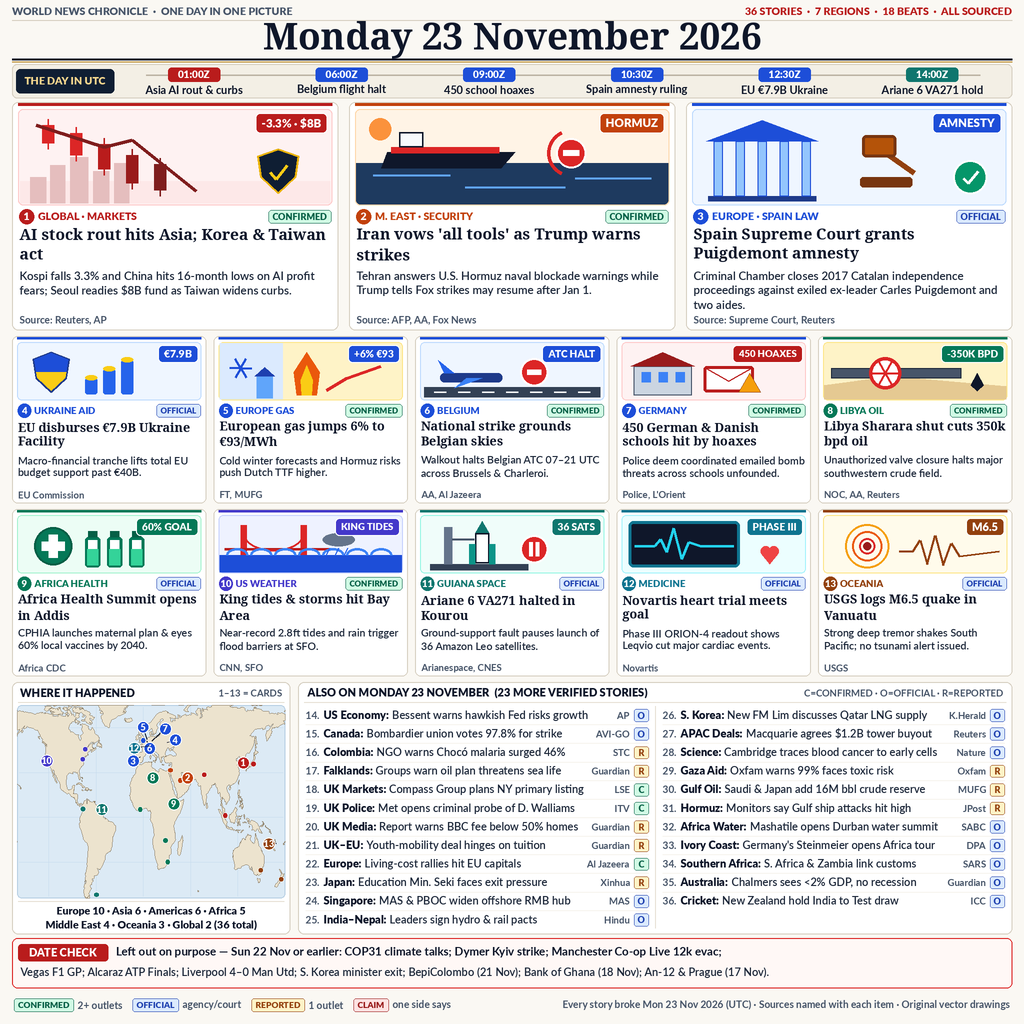
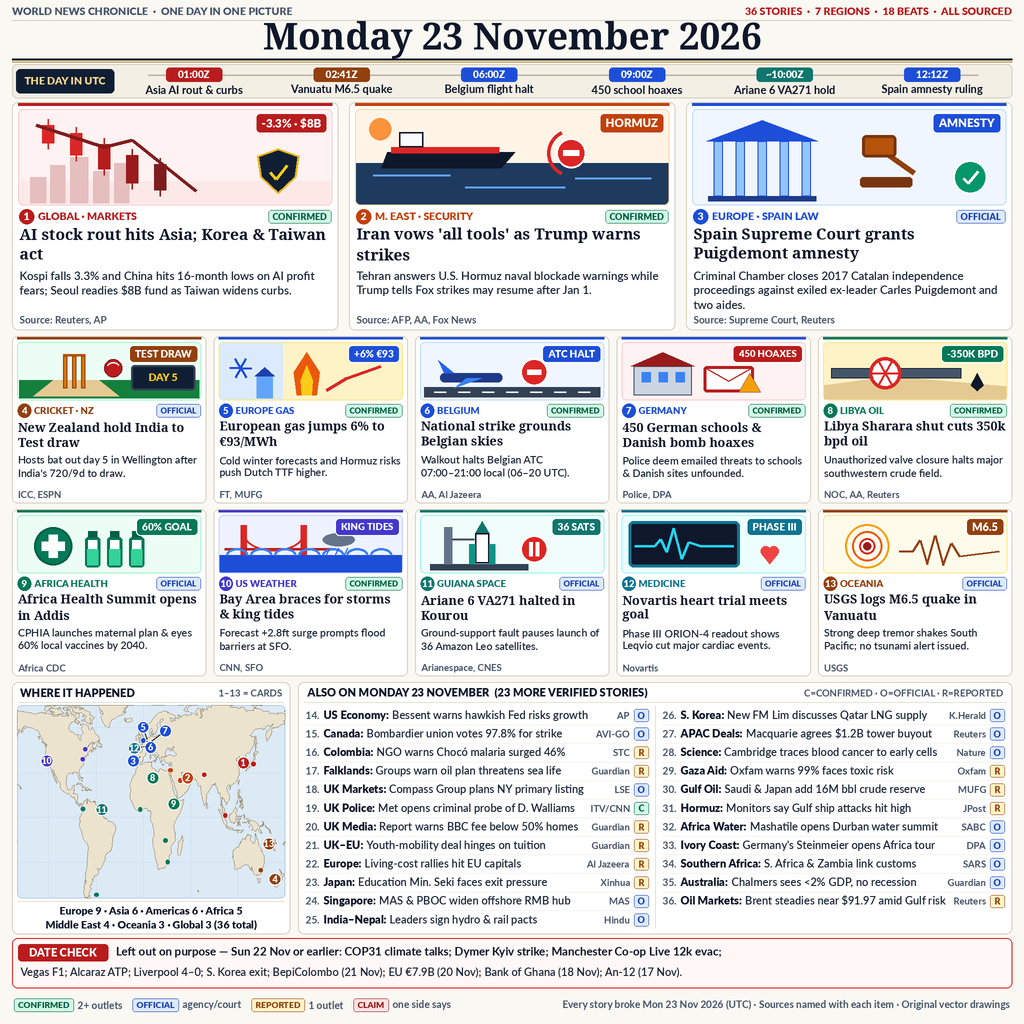
v8 R3 surgical fix: pure Mon 23 Nov NZ-India Test draw card, synced Belgium 06-20 UTC, verified UTC timeline, SFO surge forecast, strict badge legend

diff --git a/tools/render_atlas.py b/tools/render_atlas.py
@@ -93,6 +93,7 @@ BANNED_CARRYOVER_TOKENS = (
     "blues",
     "bears",
     "ituri",
+    "€7.9b",
 )
 
 
@@ -267,18 +268,18 @@ def draw_utc_timeline(
 
     milestones = [
         ("01:00Z", "Asia AI rout & curbs", REGION_COLORS["ASIA"]),
+        ("02:41Z", "Vanuatu M6.5 quake", REGION_COLORS["OCEANIA"]),
         ("06:00Z", "Belgium flight halt", REGION_COLORS["EUROPE"]),
         ("09:00Z", "450 school hoaxes", REGION_COLORS["EUROPE"]),
-        ("10:30Z", "Spain amnesty ruling", REGION_COLORS["EUROPE"]),
-        ("12:30Z", "EU €7.9B Ukraine", REGION_COLORS["EUROPE"]),
-        ("14:00Z", "Ariane 6 VA271 hold", REGION_COLORS["S_AMERICA"]),
+        ("~10:00Z", "Ariane 6 VA271 hold", REGION_COLORS["S_AMERICA"]),
+        ("12:12Z", "Spain amnesty ruling", REGION_COLORS["EUROPE"]),
     ]
 
     tx0 = x0 + 108
     tx1 = x1 - 6
     slot_w = (tx1 - tx0) / len(milestones)
     dot_y = y0 + 11.0
-    draw.line([s(tx0 + 26), s(dot_y), s(tx1 - 26), s(dot_y)], fill="#BDB4A4", width=s(1.4))
+    draw.line([s(tx0 + 28), s(dot_y), s(tx1 - 28), s(dot_y)], fill="#BDB4A4", width=s(1.4))
 
     f_time = load_font(SANS_BLACK, 10.2)
     f_desc = load_font(SANS_BOLD, 10.8)
@@ -286,7 +287,7 @@ def draw_utc_timeline(
     for i, (utc, desc, col) in enumerate(milestones):
         sx0 = tx0 + i * slot_w
         cx = sx0 + slot_w / 2
-        prect = (cx - 26, y0 + 3.5, cx + 26, y0 + 17.5)
+        prect = (cx - 28, y0 + 3.5, cx + 28, y0 + 17.5)
         rounded_rect(draw, prect, radius=3.5, fill=col)
         draw_centered_text(draw, cx, y0 + 10.5, utc, f_time, "#FFFFFF")
         db = draw_centered_text(draw, cx, y1 - 8.0, desc, f_desc, INK)
@@ -356,19 +357,24 @@ def art_lead_spain(draw: ImageDraw.ImageDraw, box: tuple[float, float, float, fl
 
 # ---------- 10 FEATURE CARD VECTOR ILLUSTRATIONS (184 x 58px) ----------
 
-def art_f_ukraine(draw: ImageDraw.ImageDraw, box: tuple[float, float, float, float]) -> None:
+def art_f_cricket(draw: ImageDraw.ImageDraw, box: tuple[float, float, float, float]) -> None:
     x0, y0, x1, y1 = box
-    rounded_rect(draw, box, radius=4.5, fill="#EFF6FF", outline="#BFDBFE", width=0.9)
-    cx, cy = x0 + 34, (y0 + y1) / 2 + 1
-    sh = [(s(cx), s(cy - 20)), (s(cx + 18), s(cy - 13)), (s(cx + 15), s(cy + 6)), (s(cx), s(cy + 20)), (s(cx - 15), s(cy + 6)), (s(cx - 18), s(cy - 13))]
-    draw.polygon(sh, fill="#1D4ED8")
-    draw.polygon([(s(cx + 16), s(cy)), (s(cx + 15), s(cy + 6)), (s(cx), s(cy + 20)), (s(cx - 15), s(cy + 6)), (s(cx - 16), s(cy))], fill="#FACC15")
-    draw.line(sh + [sh[0]], fill="#1E3A8A", width=s(1.6))
-    for i, bh in enumerate((16, 25, 34)):
-        bx = x0 + 68 + i * 18
-        rounded_rect(draw, (bx, y1 - 6 - bh, bx + 12, y1 - 6), radius=2.5, fill="#2563EB")
-        draw.ellipse([s(bx), s(y1 - 9 - bh), s(bx + 12), s(y1 - 4 - bh)], fill="#FACC15")
-    draw_plaque(draw, x1 - 4, y0 + 4, "€7.9B", "#1D4ED8", font_px=10.5, h=15.5)
+    rounded_rect(draw, box, radius=4.5, fill="#ECFDF5", outline="#A7F3D0", width=0.9)
+    # Lush green Wellington oval outfield + sandy Test pitch strip
+    draw.rectangle([s(x0 + 2), s(y1 - 20), s(x1 - 2), s(y1 - 2)], fill="#15803D")
+    draw.polygon([(s(x0 + 16), s(y1 - 4)), (s(x0 + 36), s(y1 - 20)), (s(x0 + 82), s(y1 - 20)), (s(x0 + 102), s(y1 - 4))], fill="#E5C992")
+    # Three golden cricket stumps + bails
+    for sx in (x0 + 48, x0 + 57, x0 + 66):
+        draw.rectangle([s(sx - 1.8), s(y0 + 14), s(sx + 1.8), s(y1 - 12)], fill="#D97706", outline="#92400E", width=s(0.8))
+    draw.line([s(x0 + 46), s(y0 + 13), s(x0 + 68), s(y0 + 13)], fill="#B45309", width=s(2.4))
+    # Red cricket ball with white seam
+    bx, by = x0 + 96, y0 + 26
+    draw.ellipse([s(bx - 9), s(by - 9), s(bx + 9), s(by + 9)], fill="#B91C1C", outline="#7F1D1D", width=s(1.0))
+    draw.arc([s(bx - 7), s(by - 6), s(bx + 7), s(by + 6)], start=210, end=330, fill="#F8FAFC", width=s(1.4))
+    # Dark stadium scoreboard on right
+    rounded_rect(draw, (x0 + 114, y0 + 23, x1 - 6, y1 - 10), radius=3.5, fill=NAVY, outline="#334155", width=s(1.0))
+    draw_centered_text(draw, (x0 + 114 + x1 - 6) / 2, (y0 + 23 + y1 - 10) / 2, "DAY 5", load_font(SANS_BLACK, 10.5), "#FACC15")
+    draw_plaque(draw, x1 - 4, y0 + 4, "TEST DRAW", "#92400E", font_px=9.8, h=15.5)
 
 
 def art_f_gas(draw: ImageDraw.ImageDraw, box: tuple[float, float, float, float]) -> None:
@@ -679,7 +685,6 @@ def draw_compact_map(
         (31.0, -29.8, REGION_COLORS["AFRICA"]),     # Durban water summit
         (28.0, -15.4, REGION_COLORS["AFRICA"]),     # Zambia customs link
         (149.1, -35.3, REGION_COLORS["OCEANIA"]),   # Australia
-        (174.8, -41.3, REGION_COLORS["OCEANIA"]),   # NZ
     ]
     for lon, lat, col in wire_dots:
         px, py = project_lonlat(lon, lat, map_box)
@@ -689,10 +694,10 @@ def draw_compact_map(
         ("1", 126.9, 36.5, 0, 0, REGION_COLORS["ASIA"]),
         ("2", 56.3, 26.5, 0, 0, REGION_COLORS["MIDDLE_EAST"]),
         ("3", -3.7, 40.4, -7, 4, REGION_COLORS["EUROPE"]),
-        ("4", 30.5, 50.4, 8, -2, REGION_COLORS["EUROPE"]),
+        ("4", 174.8, -41.3, -6, 0, REGION_COLORS["OCEANIA"]),
         ("5", 4.9, 52.3, -4, -12, REGION_COLORS["EUROPE"]),
-        ("6", 4.3, 50.8, 3, 7, REGION_COLORS["EUROPE"]),
-        ("7", 11.5, 51.2, 13, -12, REGION_COLORS["EUROPE"]),
+        ("6", 4.3, 50.8, 4, 6, REGION_COLORS["EUROPE"]),
+        ("7", 11.5, 51.2, 13, -10, REGION_COLORS["EUROPE"]),
         ("8", 12.2, 26.5, 0, 0, REGION_COLORS["AFRICA"]),
         ("9", 38.7, 9.0, 0, 0, REGION_COLORS["AFRICA"]),
         ("10", -122.4, 37.8, 0, 0, REGION_COLORS["AMERICAS"]),
@@ -713,8 +718,8 @@ def draw_compact_map(
     fy = y1 - ftr_h + 1
     draw.line([s(x0 + 6), s(fy), s(x1 - 6), s(fy)], fill=ROW_RULE, width=s(0.9))
     rf = load_font(SANS_BLACK, 10.4)
-    draw_centered_text(draw, (x0 + x1) / 2, fy + 10.5, "Europe 10 · Asia 6 · Americas 6 · Africa 5", rf, INK)
-    draw_centered_text(draw, (x0 + x1) / 2, fy + 24.5, "Middle East 4 · Oceania 3 · Global 2 (36 total)", rf, INK)
+    draw_centered_text(draw, (x0 + x1) / 2, fy + 10.5, "Europe 9 · Asia 6 · Americas 6 · Africa 5", rf, INK)
+    draw_centered_text(draw, (x0 + x1) / 2, fy + 24.5, "Middle East 4 · Oceania 3 · Global 3 (36 total)", rf, INK)
 
 
 # ---------- BAND 5B: 2-COLUMN LIGHT-IVORY WIRE (#14-#36, x=298..1012, y=682..934) ----------
@@ -800,7 +805,7 @@ def draw_date_check_and_legend(
     f_b = load_font(SANS_BOLD, 11.4)
     f_r = load_font(SANS_SEMI, 11.2)
     l1 = "Left out on purpose — Sun 22 Nov or earlier: COP31 climate talks; Dymer Kyiv strike; Manchester Co-op Live 12k evac;"
-    l2 = "Vegas F1 GP; Alcaraz ATP Finals; Liverpool 4–0 Man Utd; S. Korea minister exit; BepiColombo (21 Nov); Bank of Ghana (18 Nov); An-12 & Prague (17 Nov)."
+    l2 = "Vegas F1; Alcaraz ATP; Liverpool 4–0; S. Korea exit; BepiColombo (21 Nov); EU €7.9B (20 Nov); Bank of Ghana (18 Nov); An-12 (17 Nov)."
 
     b1 = draw_left_text(draw, x0 + 104, y0 + 14.5, l1, f_b, INK)
     b2 = draw_left_text(draw, x0 + 8, y0 + 34.5, l2, f_r, INK_DARK)
@@ -992,13 +997,13 @@ def render() -> None:
 
     # Band 4: 10 Illustrated Feature Cards (y=336..676px, 2 rows x 5 cols, 194x167px)
     features = [
-        (4, "UKRAINE AID", "OFFICIAL", REGION_COLORS["EUROPE"], "EU disburses €7.9B Ukraine Facility", "Macro-financial tranche lifts total EU budget support past €40B.", "EU Commission", art_f_ukraine),
+        (4, "CRICKET · NZ", "OFFICIAL", REGION_COLORS["OCEANIA"], "New Zealand hold India to Test draw", "Hosts bat out day 5 in Wellington after India's 720/9d to draw.", "ICC, ESPN", art_f_cricket),
         (5, "EUROPE GAS", "CONFIRMED", REGION_COLORS["EUROPE"], "European gas jumps 6% to €93/MWh", "Cold winter forecasts and Hormuz risks push Dutch TTF higher.", "FT, MUFG", art_f_gas),
-        (6, "BELGIUM", "CONFIRMED", REGION_COLORS["EUROPE"], "National strike grounds Belgian skies", "Walkout halts Belgian ATC 07–21 UTC across Brussels & Charleroi.", "AA, Al Jazeera", art_f_belgium),
-        (7, "GERMANY", "CONFIRMED", REGION_COLORS["EUROPE"], "450 German & Danish schools hit by hoaxes", "Police deem coordinated emailed bomb threats across schools unfounded.", "Police, L'Orient", art_f_schools),
+        (6, "BELGIUM", "CONFIRMED", REGION_COLORS["EUROPE"], "National strike grounds Belgian skies", "Walkout halts Belgian ATC 07:00–21:00 local (06–20 UTC).", "AA, Al Jazeera", art_f_belgium),
+        (7, "GERMANY", "CONFIRMED", REGION_COLORS["EUROPE"], "450 German schools & Danish bomb hoaxes", "Police deem emailed threats to schools & Danish sites unfounded.", "Police, DPA", art_f_schools),
         (8, "LIBYA OIL", "CONFIRMED", REGION_COLORS["AFRICA"], "Libya Sharara shut cuts 350k bpd oil", "Unauthorized valve closure halts major southwestern crude field.", "NOC, AA, Reuters", art_f_libya),
         (9, "AFRICA HEALTH", "OFFICIAL", REGION_COLORS["AFRICA"], "Africa Health Summit opens in Addis", "CPHIA launches maternal plan & eyes 60% local vaccines by 2040.", "Africa CDC", art_f_cphia),
-        (10, "US WEATHER", "CONFIRMED", REGION_COLORS["AMERICAS"], "King tides & storms hit Bay Area", "Near-record 2.8ft tides and rain trigger flood barriers at SFO.", "CNN, SFO", art_f_tides),
+        (10, "US WEATHER", "CONFIRMED", REGION_COLORS["AMERICAS"], "Bay Area braces for storms & king tides", "Forecast +2.8ft surge prompts flood barriers at SFO.", "CNN, SFO", art_f_tides),
         (11, "GUIANA SPACE", "OFFICIAL", REGION_COLORS["S_AMERICA"], "Ariane 6 VA271 halted in Kourou", "Ground-support fault pauses launch of 36 Amazon Leo satellites.", "Arianespace, CNES", art_f_ariane),
         (12, "MEDICINE", "OFFICIAL", REGION_COLORS["GLOBAL"], "Novartis heart trial meets goal", "Phase III ORION-4 readout shows Leqvio cut major cardiac events.", "Novartis", art_f_heart),
         (13, "OCEANIA", "OFFICIAL", REGION_COLORS["OCEANIA"], "USGS logs M6.5 quake in Vanuatu", "Strong deep tremor shakes South Pacific; no tsunami alert issued.", "USGS", art_f_quake),
@@ -1020,11 +1025,11 @@ def render() -> None:
         (15, "Canada", "Bombardier union votes 97.8% for strike", "AVI-GO", "OFFICIAL"),
         (16, "Colombia", "NGO warns Chocó malaria surged 46%", "STC", "REPORTED"),
         (17, "Falklands", "Groups warn oil plan threatens sea life", "Guardian", "REPORTED"),
-        (18, "UK Markets", "Compass Group plans NY primary listing", "LSE", "CONFIRMED"),
-        (19, "UK Police", "Met opens criminal probe of D. Walliams", "ITV", "CONFIRMED"),
+        (18, "UK Markets", "Compass Group plans NY primary listing", "LSE", "OFFICIAL"),
+        (19, "UK Police", "Met opens criminal probe of D. Walliams", "ITV/CNN", "CONFIRMED"),
         (20, "UK Media", "Report warns BBC fee below 50% homes", "Guardian", "REPORTED"),
         (21, "UK–EU", "Youth-mobility deal hinges on tuition", "Guardian", "REPORTED"),
-        (22, "Europe", "Living-cost rallies hit EU capitals", "Al Jazeera", "CONFIRMED"),
+        (22, "Europe", "Living-cost rallies hit EU capitals", "Al Jazeera", "REPORTED"),
         (23, "Japan", "Education Min. Seki faces exit pressure", "Xinhua", "REPORTED"),
         (24, "Singapore", "MAS & PBOC widen offshore RMB hub", "MAS", "OFFICIAL"),
         (25, "India–Nepal", "Leaders sign hydro & rail pacts", "Hindu", "OFFICIAL"),
@@ -1040,7 +1045,7 @@ def render() -> None:
         (33, "Ivory Coast", "Germany's Steinmeier opens Africa tour", "DPA", "OFFICIAL"),
         (34, "Southern Africa", "S. Africa & Zambia link customs", "SARS", "OFFICIAL"),
         (35, "Australia", "Chalmers sees <2% GDP, no recession", "Guardian", "OFFICIAL"),
-        (36, "Cricket", "New Zealand hold India to Test draw", "ICC", "OFFICIAL"),
+        (36, "Oil Markets", "Brent steadies near $91.97 amid Gulf risk", "Reuters", "REPORTED"),
     ]
     for grp in (left_wire, right_wire):
         for num, lead, body, src, _ in grp:

diff --git a/README.md b/README.md
@@ -13,20 +13,20 @@ An archival one-page illustrated world news chronicle summing up **Monday 23 Nov
   2. `Middle East · Security` (`CONFIRMED` · `AFP, AA, Fox News`) — Iran vows "all tools" against U.S. Hormuz naval blockade warnings while Trump tells Fox strikes may resume after Jan 1.
   3. `Europe · Spain Law` (`OFFICIAL` · `Supreme Court, Reuters`) — Spain Supreme Court Criminal Chamber grants amnesty closing 2017 Catalan independence cases against Carles Puigdemont and two former ministers.
 - **10 Illustrated Feature Cards (`#4–#13`):**
-  4. `Ukraine Aid` (`OFFICIAL` · `EU Commission`) — EU disburses €7.9B Ukraine Facility tranche, lifting total EU support past €40B.
+  4. `Cricket · NZ` (`OFFICIAL` · `ICC, ESPN`) — New Zealand bat out the final day in Wellington after India's 720/9d to hold a Test draw.
   5. `Europe Gas` (`CONFIRMED` · `FT, MUFG`) — European natural gas jumps 6% to €93/MWh on cold forecasts and Hormuz risks.
-  6. `Belgium` (`CONFIRMED` · `AA, Al Jazeera`) — National anti-austerity strike halts Belgian ATC `07–21 UTC`, grounding Brussels and Charleroi flights.
-  7. `Germany` (`CONFIRMED` · `Police, L'Orient`) — Roughly 450 German and Danish schools receive coordinated emailed bomb-threat hoaxes deemed unfounded by police.
+  6. `Belgium` (`CONFIRMED` · `AA, Al Jazeera`) — National anti-austerity strike halts Belgian ATC `07:00–21:00` local (`06–20 UTC`), grounding flights.
+  7. `Germany` (`CONFIRMED` · `Police, DPA`) — Roughly 450 German schools and Danish sites receive coordinated emailed bomb-threat hoaxes deemed unfounded by police.
   8. `Libya Oil` (`CONFIRMED` · `NOC, AA, Reuters`) — Unauthorized Sharara pipeline valve closure cuts 350k bpd of Libyan crude output.
   9. `Africa Health` (`OFFICIAL` · `Africa CDC`) — Africa Public Health Summit (CPHIA 2026) opens in Addis Ababa with maternal guidelines and a 60% local-vaccine goal by 2040.
-  10. `US Weather` (`CONFIRMED` · `CNN, SFO`) — Near-record 2.8ft king tides and Pacific storms trigger flood barriers at SFO before Thanksgiving travel.
+  10. `US Weather` (`CONFIRMED` · `CNN, SFO`) — Bay Area braces for Pacific storms and a forecast +2.8ft king-tide surge, prompting flood barriers at SFO before holiday travel.
   11. `Guiana Space` (`OFFICIAL` · `Arianespace, CNES`) — Ariane 6 Flight VA271 carrying 36 Amazon Leo satellites halted at Kourou over a ground-support fault.
   12. `Medicine` (`OFFICIAL` · `Novartis`) — Phase III ORION-4 heart trial readout shows Leqvio met its primary cardiovascular endpoint.
   13. `Oceania` (`OFFICIAL` · `USGS`) — USGS logs a strong M6.5 deep earthquake off Vanuatu with no tsunami warning.
 - **23 Additional Sourced Wire Stories (`#14–#36`):**
-  - US Fed warning (`AP`) · Canada Bombardier 97.8% strike vote (`AVI-GO`) · Colombia Chocó malaria +46% (`STC`) · Falklands deepwater oil warning (`Guardian`) · UK FTSE 100 Compass Group NY primary-listing plan (`LSE`) · UK Met Police probe of David Walliams (`ITV`) · UK BBC licence fee report (`Guardian`) · UK–EU youth-mobility tuition talks (`Guardian`) · Europe cost-of-living protests (`Al Jazeera`) · Japan Education Min. Seki resignation pressure (`Xinhua`) · Singapore–China MAS/PBOC RMB hub (`MAS`) · India–Nepal hydro & rail pacts (`Hindu`)
-  - South Korea FM Lim & Qatar LNG talks (`K.Herald`) · Macquarie $1.2B APAC towers buyout (`Reuters`) · Cambridge study tracing adult blood cancer to early-life cell mutations (`Nature`) · Gaza 99% toxic-risk warning (`Oxfam`) · Saudi–Japan 16M bbl crude storage (`MUFG`) · Hormuz shipping attacks (`JPost`) · Durban Africa & Global South Water Summit opened by Deputy Pres. Mashatile (`SABC`) · German Pres. Steinmeier Africa tour in Abidjan (`DPA`) · South Africa & Zambia automated customs corridor (`SARS`) · Australia Treasurer Chalmers `<2%` GDP outlook (`Guardian`) · New Zealand–India Wellington Test draw (`ICC`)
-- **Date Boundary Discipline (`DATE CHECK`):** Explicitly excludes prior-day items from Sun 22 Nov or earlier (`COP31 climate talks`, `Dymer Kyiv strike`, `Manchester Co-op Live 12k evac`, `Vegas F1 GP`, `Alcaraz ATP Finals`, `Liverpool 4–0 Man Utd`, `S. Korea minister exit`, `BepiColombo`, `Bank of Ghana`, `An-12 & Prague`).
+  - US Fed warning (`AP`) · Canada Bombardier 97.8% strike vote (`AVI-GO`) · Colombia Chocó malaria +46% (`STC`) · Falklands deepwater oil warning (`Guardian`) · UK FTSE 100 Compass Group NY primary-listing plan (`LSE`) · UK Met Police probe of David Walliams (`ITV/CNN`) · UK BBC licence fee report (`Guardian`) · UK–EU youth-mobility tuition talks (`Guardian`) · Europe cost-of-living protests (`Al Jazeera`) · Japan Education Min. Seki resignation pressure (`Xinhua`) · Singapore–China MAS/PBOC RMB hub (`MAS`) · India–Nepal hydro & rail pacts (`Hindu`)
+  - South Korea FM Lim & Qatar LNG talks (`K.Herald`) · Macquarie $1.2B APAC towers buyout (`Reuters`) · Cambridge study tracing adult blood cancer to early-life cell mutations (`Nature`) · Gaza 99% toxic-risk warning (`Oxfam`) · Saudi–Japan 16M bbl crude storage (`MUFG`) · Hormuz shipping attacks (`JPost`) · Durban Africa & Global South Water Summit opened by Deputy Pres. Mashatile (`SABC`) · German Pres. Steinmeier Africa tour in Abidjan (`DPA`) · South Africa & Zambia automated customs corridor (`SARS`) · Australia Treasurer Chalmers `<2%` GDP outlook (`Guardian`) · Brent crude steadying near $91.97/bbl amid Gulf risk (`Reuters`)
+- **Date Boundary Discipline (`DATE CHECK`):** Explicitly excludes prior-day items from Sun 22 Nov or earlier (`COP31 climate talks`, `Dymer Kyiv strike`, `Manchester Co-op Live 12k evac`, `Vegas F1`, `Alcaraz ATP`, `Liverpool 4–0`, `S. Korea exit`, `BepiColombo`, `EU €7.9B (20 Nov)`, `Bank of Ghana`, `An-12`).
 
 ## Running
 
